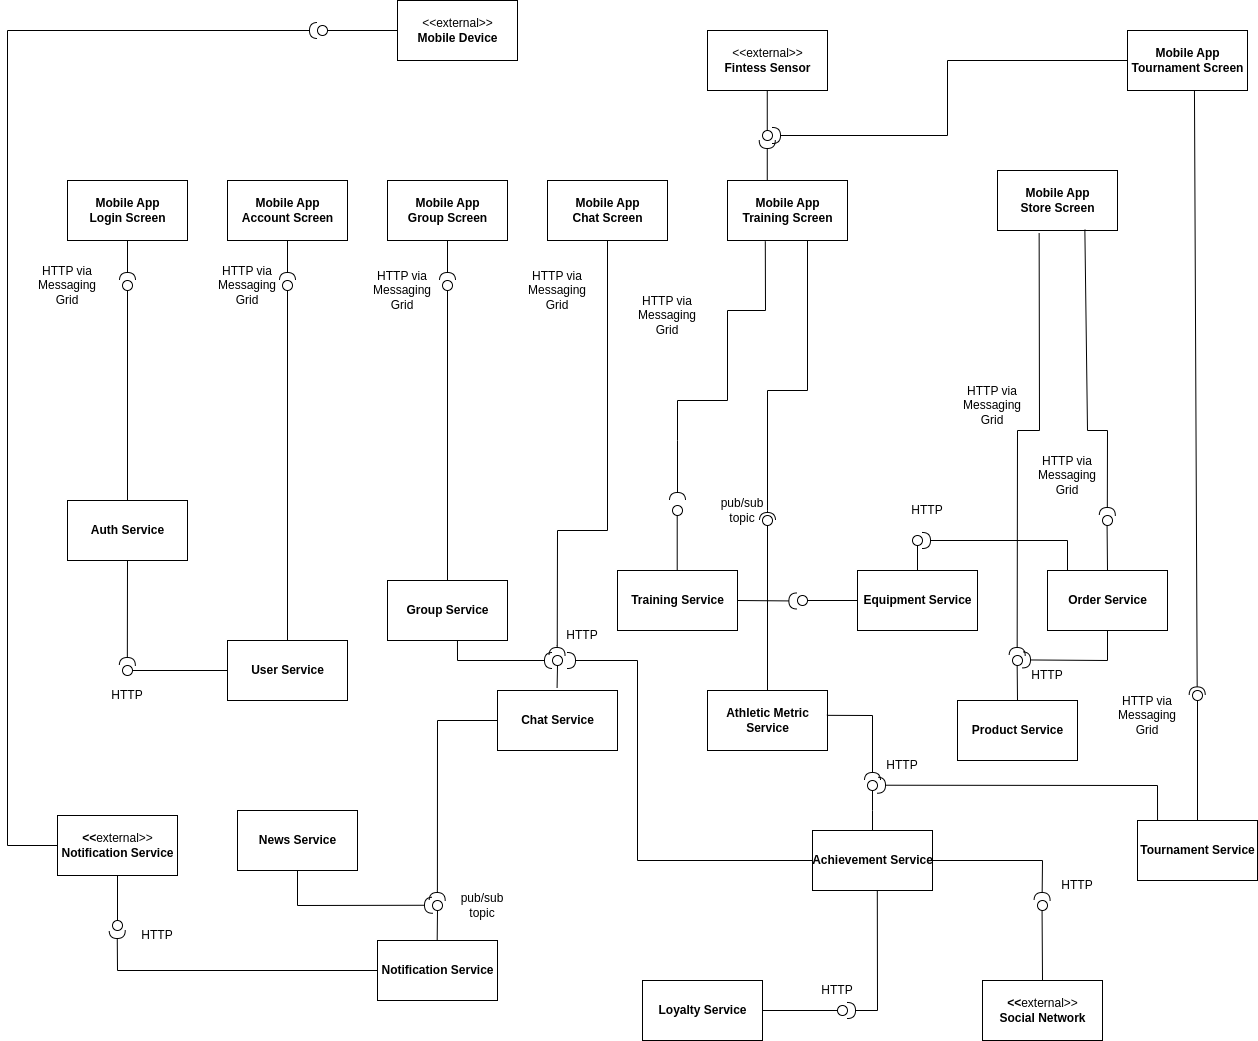
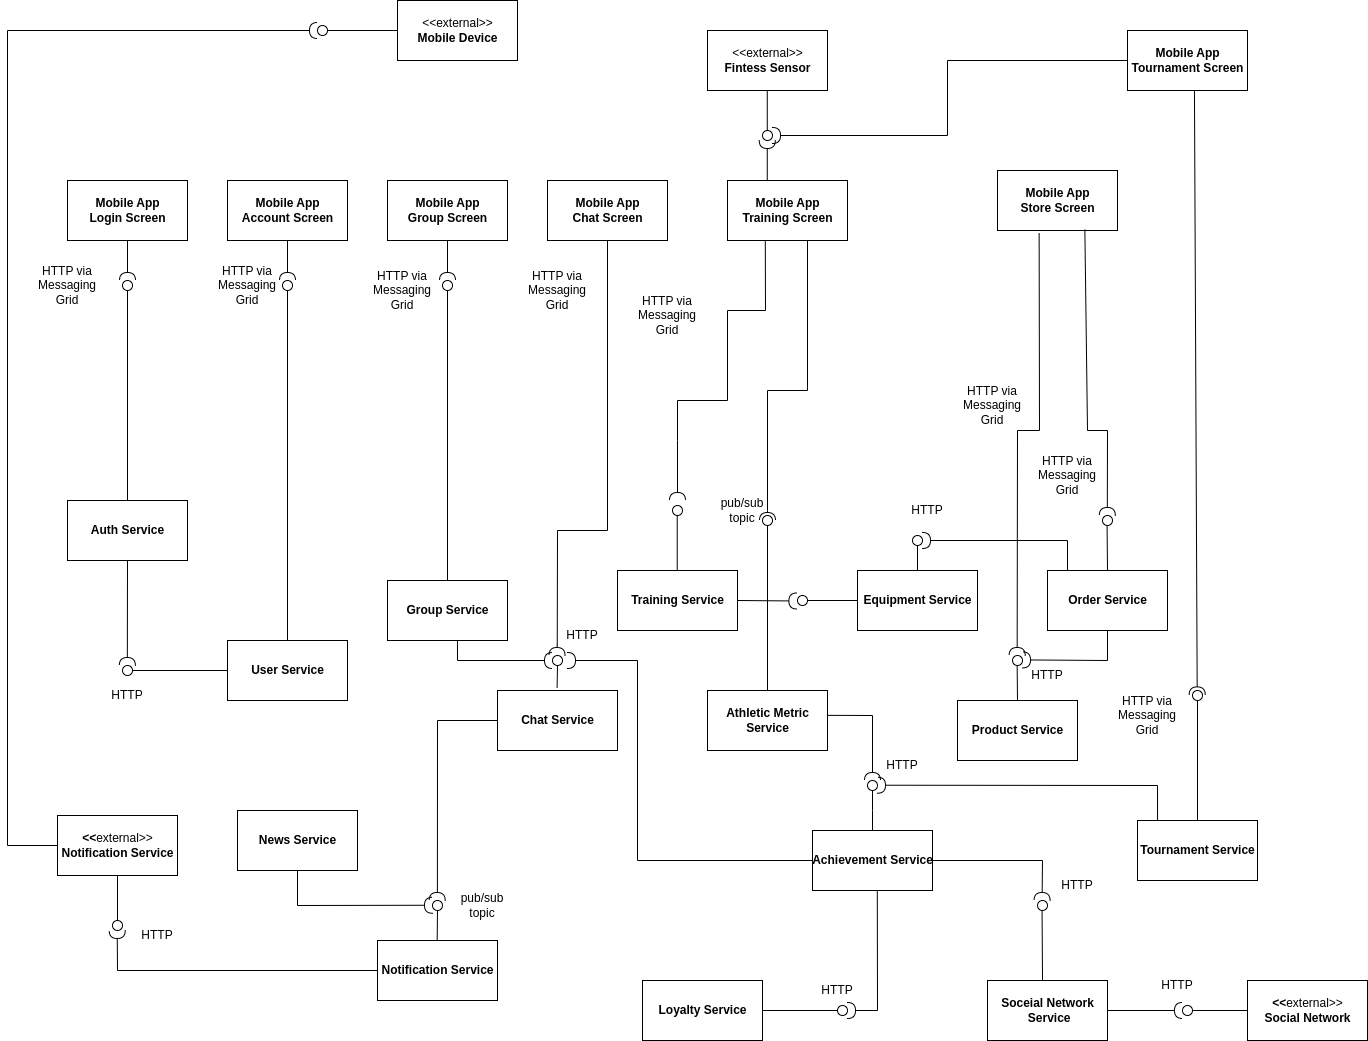
10th ADR

diff --git a/adr/010 3rd step required services.md b/adr/010 3rd step required services.md
@@ -1,0 +1,30 @@
+# Выделение сервисов, необходимых на третьем этапе
+
+## Контекст:
+
+Мы реализовали функционал позволяющий пользователю заказывать товары, собирать из них инвентарь и использовать его для планирования тренировок. 
+
+На третьем этапе нужно разработать систему достижений, добавить геймификацию, использование баллов за достижения в качестве бонусов согласно системе лояльности, а также проинтегрировать систему с социальными сетями.
+
+Необходимо обозначить границы сервисов, которые будут выполнять все вышеперечисленные функции.
+
+## Решение
+
+Мы реализуем следующие сервисы:
+
+1. Сервис достижений (Achievements), который регистрирует достижение пользователя по результатам сбора его метрик и уведомляет о нем пользователя.
+2. Сервис системы лояльности (Loyalty), которая получает уведомление о достижении и начисляет бонусы согласно стратегии поощрения.
+3. Сервис социальных сетей (Social Networks), который служит прослойкой между системой и социальными сетями и реализует функционал, позволяющий делать посты в них о новых достижениях.
+
+Все эти сервисы будут объединены в рамках Process Unit.
+
+![Сервисы второго этапа](https://raw.githubusercontent.com/ariverrun/coursework/main/assets/010%203rd%20step%20required%20services.png "Сервисы второго этапа")
+
+## Статус:
+
+принято
+
+## Последствия
+
+1. Разделение на сервисы позволит их независимо масштабировать, что важно, так как они будут иметь различную нагрузку.
+2. Разделение на сервисы позволит их независимо разрабатывать.

diff --git a/adr/009 2th step required services.md b/adr/009 2th step required services.md
@@ -2,7 +2,7 @@
 
 ## Контекст:
 
-Мы реализовали функционал позволяющий пользователю регистрироваться в системе, найтнаходить интересующие его группы, общаться с их участниками в чате, составлять планы тренировок, система уже собирает метрики фитнесс-функций его смартфона и дополнительных датчиков, и позволяет изучать их статистику.
+Мы реализовали функционал позволяющий пользователю регистрироваться в системе, ходить интересующие его группы, общаться с их участниками в чате, составлять планы тренировок, система уже собирает метрики фитнесс-функций его смартфона и дополнительных датчиков, и позволяет изучать их статистику.
 
 На втором этапе нужно добавить возможность заказывать через приложение товары и собирать инвентарь.
 
